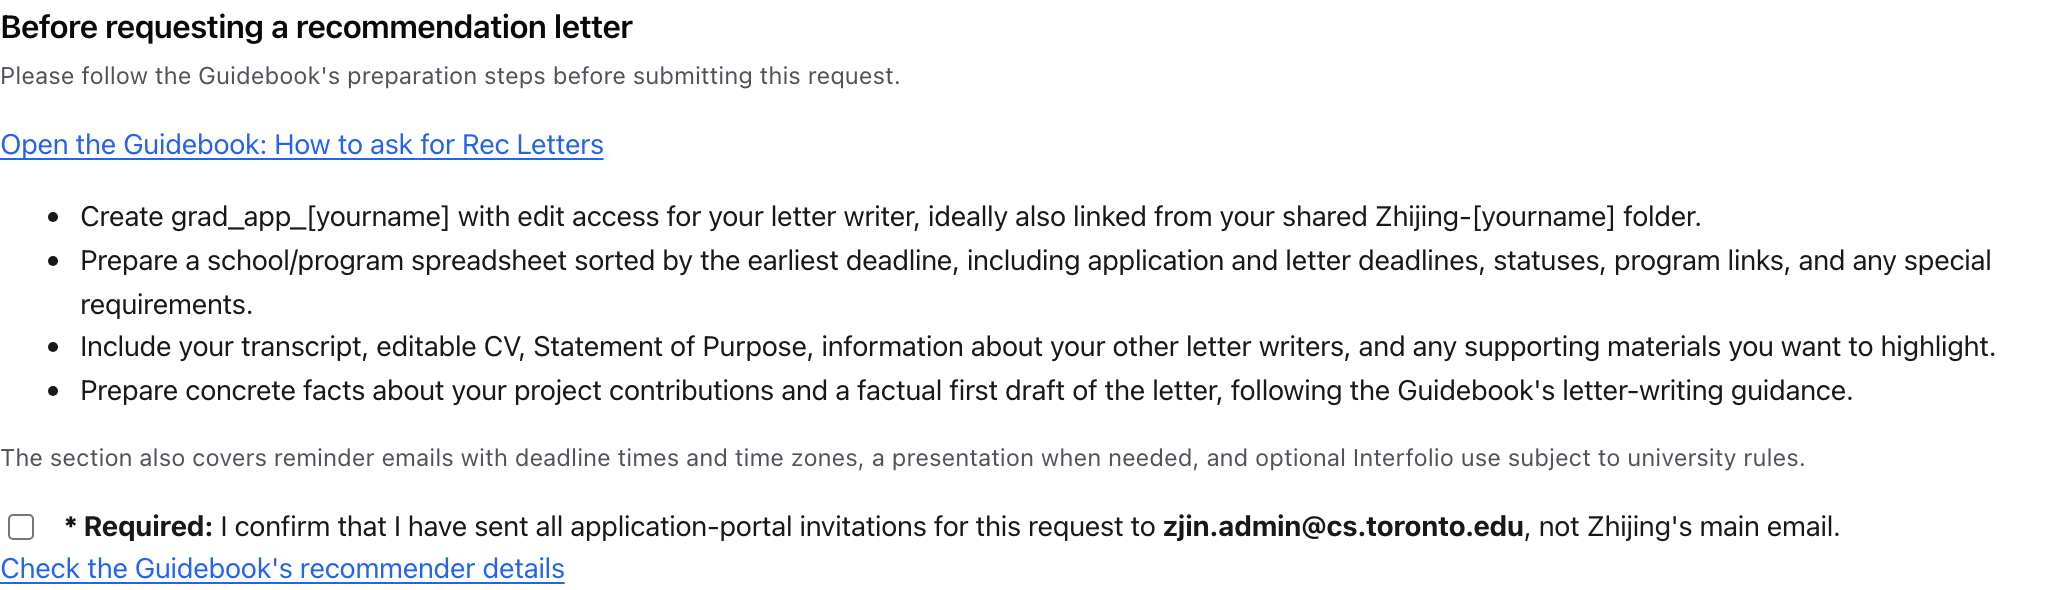
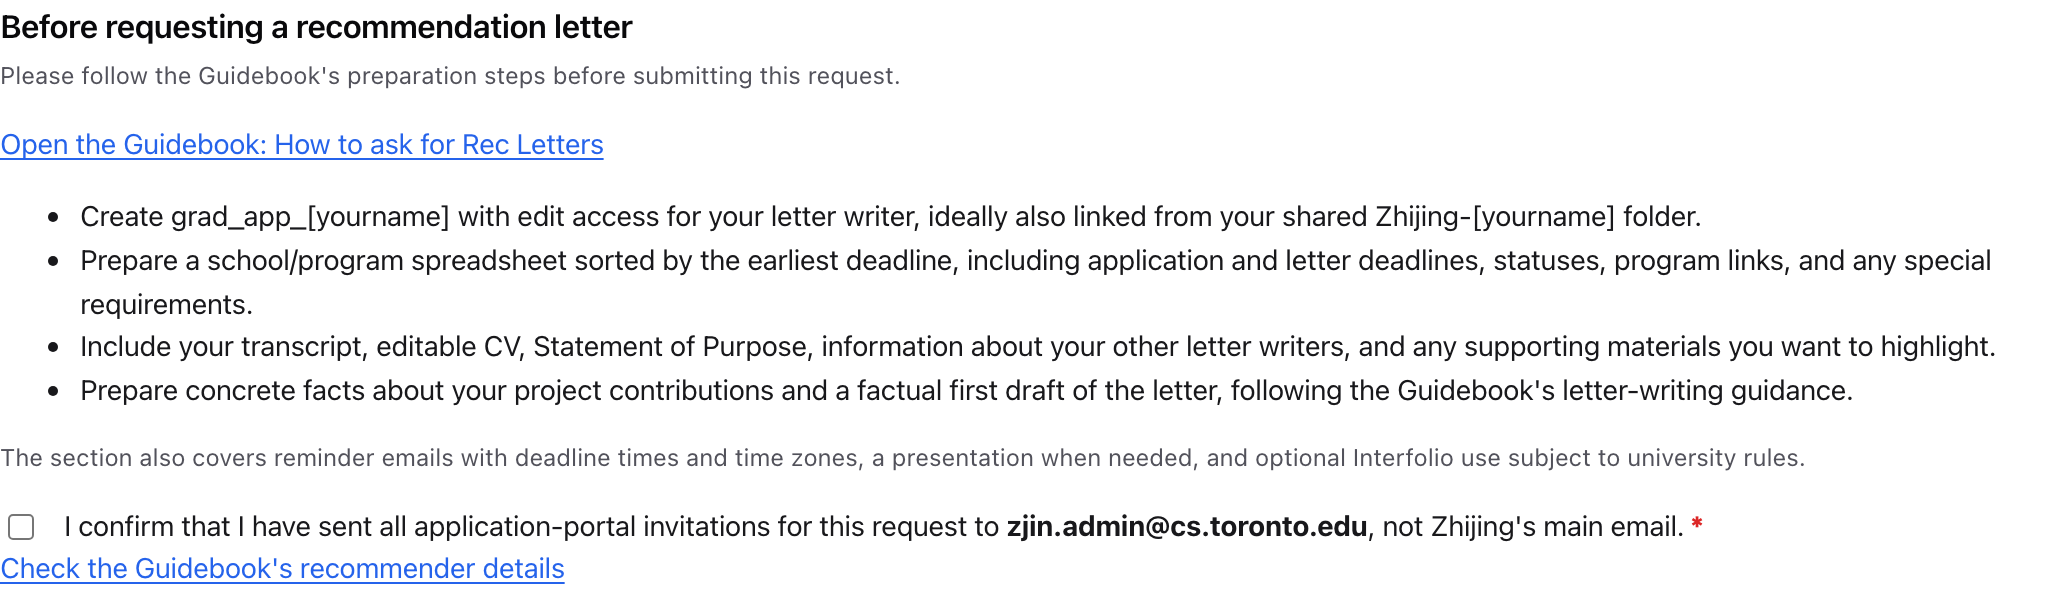
fix(adminbot): use the standard red required asterisk

Changed region(s): [[0.0309, 0.8542, 0.8975, 0.9153]]

diff --git a/openclaw-adminbot/ui/src/ui/adminbot/views/logistics.ts b/openclaw-adminbot/ui/src/ui/adminbot/views/logistics.ts
@@ -1300,9 +1300,12 @@ function renderLettersRequest(props: LettersProps) {
               style="flex-shrink:0;margin-top:5px"
             />
             <span
-              ><strong><span aria-hidden="true">*</span> ${t("adminbotWelcome.required")}:</strong>
-              I confirm that I have sent all application-portal invitations for this request to
-              <strong>zjin.admin@cs.toronto.edu</strong>, not Zhijing's main email.</span
+              >I confirm that I have sent all application-portal invitations for this request to
+              <strong>zjin.admin@cs.toronto.edu</strong>, not Zhijing's main email.<span
+                class="cron-required-marker"
+                aria-hidden="true"
+                >*</span
+              ></span
             >
           </label>
           <a

diff --git a/openclaw-adminbot/ui/src/ui/adminbot/views/logistics.test.ts b/openclaw-adminbot/ui/src/ui/adminbot/views/logistics.test.ts
@@ -982,7 +982,10 @@ describe("list of schools", () => {
     const confirmation = drawn.container.querySelector<HTMLInputElement>(
       "[data-testid='logistics-email-confirmation']",
     )!;
-    expect(confirmation.closest("label")?.textContent).toContain("* Required:");
+    expect(
+      confirmation.closest("label")?.querySelector(".cron-required-marker")?.textContent?.trim(),
+    ).toBe("*");
+    expect(confirmation.closest("label")?.textContent).not.toContain("Required:");
     expect(confirmation.required).toBe(true);
     expect(confirmation.checked).toBe(false);
     confirmation.checked = true;
